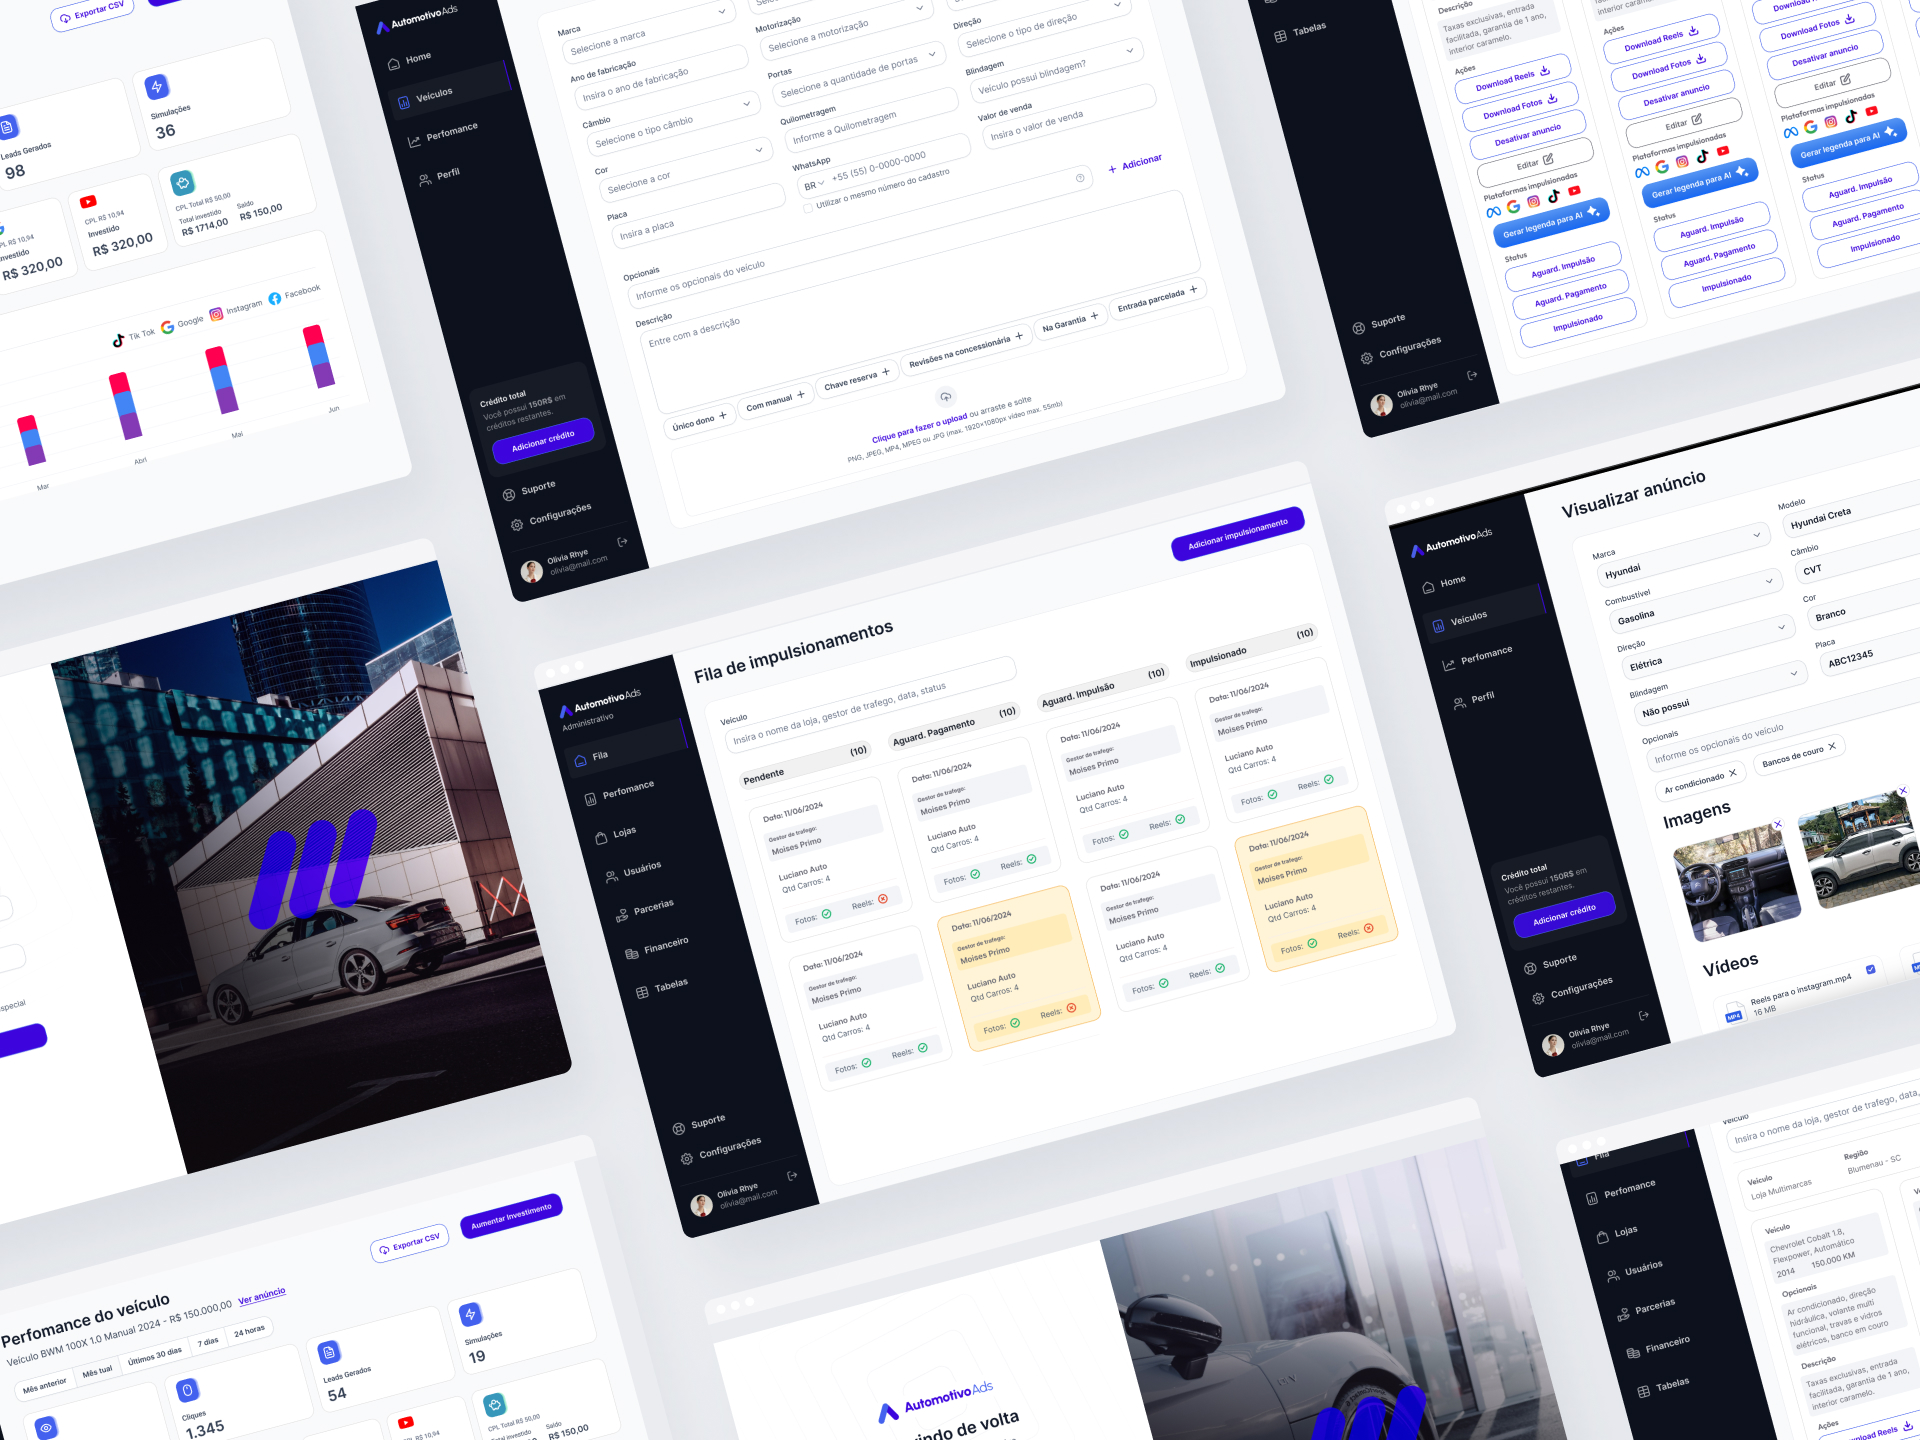
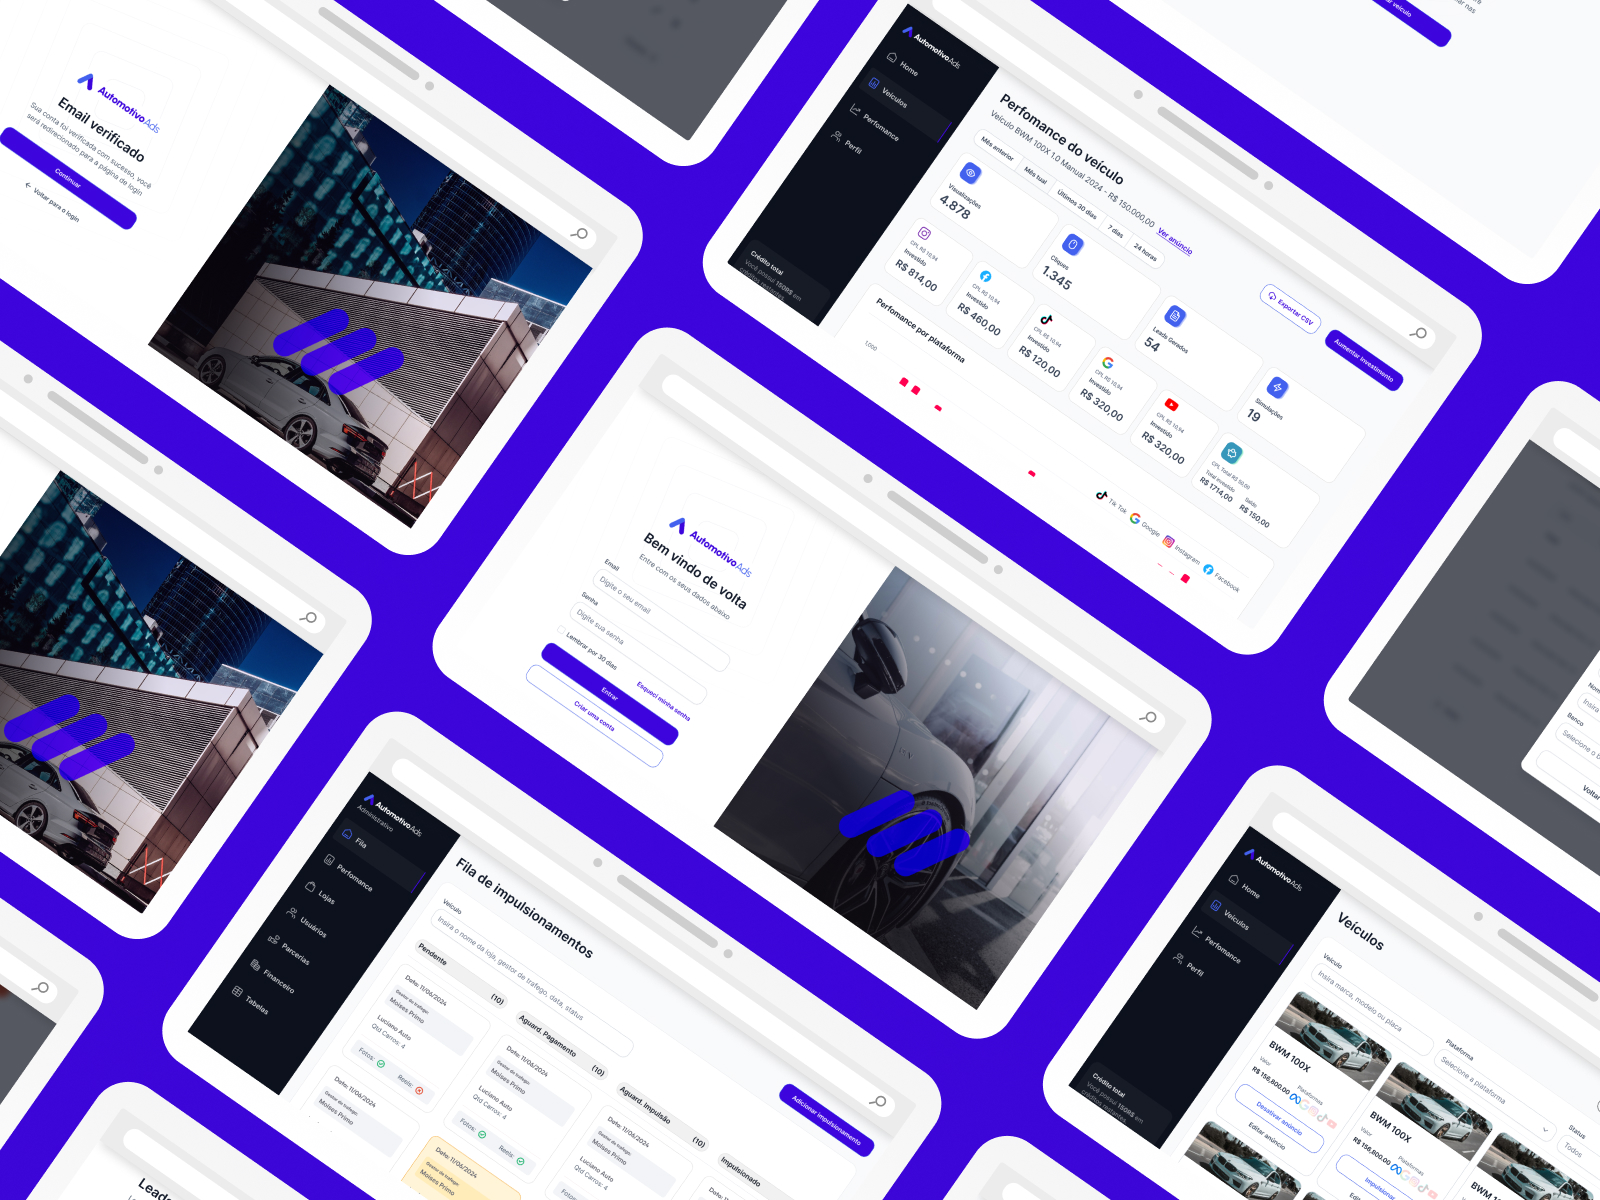
Refactor code structure and remove redundant sections for improved readability and maintainability

diff --git a/app/projetos/[slug]/ProjetoDetalhesClient.tsx b/app/projetos/[slug]/ProjetoDetalhesClient.tsx
@@ -1,34 +1,30 @@
-"use client";
+"use client"
 
-import { useState } from "react";
-import Image from "next/image";
-import Link from "next/link";
+import { useState } from "react"
+import Image from "next/image"
+import Link from "next/link"
 
 interface Projeto {
-  title: string;
-  images: string[];
-  description: string;
-  descriptiondetails: string;
-  descriptiondetails2?: string;
-  descriptiondetails3?: string;
-  badge?: string;
-  badge2?: string;
-  badge3?: string;
-  urlsite?: string;
-  urlgithub?: string;
-  urlfigma?: string;
+  title: string
+  images: string[]
+  description: string
+  descriptiondetails: string
+  descriptiondetails2?: string
+  descriptiondetails3?: string
+  badge?: string
+  badge2?: string
+  badge3?: string
+  urlsite?: string
+  urlgithub?: string
+  urlfigma?: string
 }
 
-export default function ProjetoDetalhesClient({
-  projeto,
-}: {
-  projeto: Projeto;
-}) {
-  const [currentImageIndex, setCurrentImageIndex] = useState(0);
+export default function ProjetoDetalhesClient({ projeto }: { projeto: Projeto }) {
+  const [currentImageIndex, setCurrentImageIndex] = useState(0)
 
   const handleThumbnailClick = (index: number) => {
-    setCurrentImageIndex(index);
-  };
+    setCurrentImageIndex(index)
+  }
 
   return (
     <div className="bg-white dark:bg-neutral-950 py-24 sm:py-32">
@@ -37,8 +33,8 @@ export default function ProjetoDetalhesClient({
           <Image
             src={projeto.images[currentImageIndex]}
             alt={projeto.title}
-            width={600}
-            height={400}
+            width={800}
+            height={800}
             className="rounded-md object-contain"
           />
           <div className="absolute bottom-0 bg-white dark:bg-neutral-950 h-40 w-full [mask-image:linear-gradient(to_bottom,transparent,white)]" />
@@ -61,9 +57,7 @@ export default function ProjetoDetalhesClient({
           ))}
         </div>
         <div className="flex lg:flex-row gap-4 items-start flex-col mt-20">
-          <h1 className="text-zinc-800 dark:text-zinc-100 text-2xl">
-            {projeto.title}
-          </h1>
+          <h1 className="text-zinc-800 dark:text-zinc-100 text-2xl">{projeto.title}</h1>
           <div className="flex">
             {projeto.badge && (
               <span className="text-xs md:text-xs lg:text-xs bg-gray-100 px-4 py-2 rounded-lg">
@@ -83,9 +77,7 @@ export default function ProjetoDetalhesClient({
           </div>
         </div>
         <div>
-          <p className="w-full mt-4 text-zinc-600 dark:text-zinc-400">
-            {projeto.description}
-          </p>
+          <p className="w-full mt-4 text-zinc-600 dark:text-zinc-400">{projeto.description}</p>
         </div>
         <div className="prose prose-sm md:prose-base max-w-none text-zinc-600 dark:text-zinc-400 mt-4">
           <p>{projeto.descriptiondetails}</p>
@@ -105,8 +97,7 @@ export default function ProjetoDetalhesClient({
               href={projeto.urlsite}
               target="_blank"
               rel="noopener noreferrer"
-              className="rounded-md flex gap-2 items-center bg-white px-3.5 py-2.5 text-sm font-semibold text-zinc-600 dark:text-zinc-400 shadow-sm ring-1 ring-inset ring-gray-300 hover:bg-gray-50"
-            >
+              className="rounded-md flex gap-2 items-center bg-white px-3.5 py-2.5 text-sm font-semibold text-zinc-600 dark:text-zinc-400 shadow-sm ring-1 ring-inset ring-gray-300 hover:bg-gray-50">
               Live Preview
               <svg
                 xmlns="http://www.w3.org/2000/svg"
@@ -118,8 +109,7 @@ export default function ProjetoDetalhesClient({
                 strokeWidth="2"
                 strokeLinecap="round"
                 strokeLinejoin="round"
-                className="w-3.5 h-3.5 group-hover:translate-x-0.5 transition-transform"
-              >
+                className="w-3.5 h-3.5 group-hover:translate-x-0.5 transition-transform">
                 <path d="M5 12h14"></path>
                 <path d="M13 18l6-6"></path>
                 <path d="M13 6l6 6"></path>
@@ -131,8 +121,7 @@ export default function ProjetoDetalhesClient({
               href={projeto.urlgithub}
               target="_blank"
               rel="noopener noreferrer"
-              className="rounded-md bg-white dark:bg-neutral-800 px-3.5 py-2.5 text-sm font-semibold text-zinc-600 dark:text-zinc-400 border dark:border-neutral-600 border-neutral-200 hover:bg-gray-50 dark:hover:bg-neutral-900"
-            >
+              className="rounded-md bg-white dark:bg-neutral-800 px-3.5 py-2.5 text-sm font-semibold text-zinc-600 dark:text-zinc-400 border dark:border-neutral-600 border-neutral-200 hover:bg-gray-50 dark:hover:bg-neutral-900">
               GitHub Repo
               <svg
                 xmlns="http://www.w3.org/2000/svg"
@@ -144,8 +133,7 @@ export default function ProjetoDetalhesClient({
                 strokeWidth="2"
                 strokeLinecap="round"
                 strokeLinejoin="round"
-                className="w-3.5 h-3.5 group-hover:translate-x-0.5 transition-transform"
-              >
+                className="w-3.5 h-3.5 group-hover:translate-x-0.5 transition-transform">
                 <path d="M5 12h14"></path>
                 <path d="M13 18l6-6"></path>
                 <path d="M13 6l6 6"></path>
@@ -157,8 +145,7 @@ export default function ProjetoDetalhesClient({
               href={projeto.urlfigma}
               target="_blank"
               rel="noopener noreferrer"
-              className="rounded-md flex items-center justify-center gap-2 bg-white dark:bg-neutral-800 px-3.5 py-2.5 text-sm font-semibold text-zinc-600 dark:text-zinc-400 border dark:border-neutral-600 border-neutral-200 hover:bg-gray-50 dark:hover:bg-neutral-900"
-            >
+              className="rounded-md flex items-center justify-center gap-2 bg-white dark:bg-neutral-800 px-3.5 py-2.5 text-sm font-semibold text-zinc-600 dark:text-zinc-400 border dark:border-neutral-600 border-neutral-200 hover:bg-gray-50 dark:hover:bg-neutral-900">
               Figma Prototype
               <svg
                 xmlns="http://www.w3.org/2000/svg"
@@ -170,8 +157,7 @@ export default function ProjetoDetalhesClient({
                 strokeWidth="2"
                 strokeLinecap="round"
                 strokeLinejoin="round"
-                className="w-3.5 h-3.5 group-hover:translate-x-0.5 transition-transform"
-              >
+                className="w-3.5 h-3.5 group-hover:translate-x-0.5 transition-transform">
                 <path d="M5 12h14"></path>
                 <path d="M13 18l6-6"></path>
                 <path d="M13 6l6 6"></path>
@@ -181,5 +167,5 @@ export default function ProjetoDetalhesClient({
         </div>
       </div>
     </div>
-  );
+  )
 }

diff --git a/app/data/projetosData.ts b/app/data/projetosData.ts
@@ -36,11 +36,7 @@ export const projetosData = [
     description:
       "Página desenvolvida no figma para um grande portal de venda de carros novos e usados do nordeste do Brasil",
     imgsrc: "/images/projetos/carango/projeto1.jpg",
-    images: [
-      "/images/projetos/carango/projeto1.jpg",
-      "/images/projetos/carango/projeto2.jpg",
-      "/images/projetos/carango/projeto3.jpg",
-    ],
+    images: ["/images/projetos/carango/projeto1.jpg", "/images/projetos/carango/projeto3.jpg"],
     urlsite: "",
     urlgithub: "",
     urlfigma:
@@ -50,7 +46,7 @@ export const projetosData = [
     descriptiondetails3: "",
   },
   {
-    id: 4,
+    id: 3,
     slug: "projeto-automotivo-ads",
     title: "Automotivo ADS",
     projectname: "Sistema ADS para ramo Automotivo",
@@ -76,7 +72,47 @@ export const projetosData = [
     videoUrl: "https://player.vimeo.com/video/861019159",
   },
   {
+    id: 4,
+    slug: "projeto-app-ucare",
+    title: "UCare App",
+    projectname: "Aplicativo de voltado para saúde, marcação de consultas, exames e diagnósticos",
+    category: "Design (UI)",
+    badge: "Figma",
+    badge2: "",
+    badge3: "",
+    description: "Aplicativo voltado para área de saúde",
+    imgsrc: "/images/projetos/ucare/projeto.jpg",
+    images: ["/images/projetos/ucare/projeto.jpg"],
+    urlsite: "#",
+    urlgithub: "",
+    urlfigma: "",
+    descriptiondetails: "",
+    descriptiondetails2: "",
+    descriptiondetails3: "",
+    videoUrl: "",
+  },
+  {
     id: 5,
+    slug: "projeto-autosim",
+    title: "AutoSim",
+    projectname: "Plataforma de anúncios e vendas de carros novos e usados",
+    category: "Design (UI)",
+    badge: "Figma",
+    badge2: "",
+    badge3: "",
+    description: "Plataforma de anúncios e vendas de carros novos e usados",
+    imgsrc: "/images/projetos/autosim/projeto.jpg",
+    images: ["/images/projetos/autosim/projeto.jpg"],
+    urlsite: "#",
+    urlgithub: "",
+    urlfigma: "",
+    descriptiondetails: "",
+    descriptiondetails2: "",
+    descriptiondetails3: "",
+    videoUrl: "",
+  },
+  {
+    id: 6,
     slug: "projeto-lpitau",
     title: "Itaú Landing Page",
     projectname: "Criação de LP de estudo Banco Itaú",
@@ -84,8 +120,7 @@ export const projetosData = [
     badge: "Figma",
     badge2: "",
     badge3: "",
-    description:
-      "Landing Page desenvolvida durante estudos de HTML, CSS/SASS e JavaScript",
+    description: "Landing Page desenvolvida durante estudos de HTML, CSS/SASS e JavaScript",
     imgsrc: "/images/projetos/itaulp.webp",
     images: [],
     urlsite: "https://landing-page-itau-tailwind.vercel.app/",
@@ -97,7 +132,7 @@ export const projetosData = [
     videoUrl: "",
   },
   {
-    id: 6,
+    id: 7,
     slug: "projeto-america-software",
     title: "Projeto UI - America Frota",
     projectname: "Redesign de aplicação Web",
@@ -119,7 +154,7 @@ export const projetosData = [
       "https://player.vimeo.com/video/904837560?badge=0&amp;autopause=0&amp;player_id=0&amp;app_id=58479",
   },
   {
-    id: 7,
+    id: 8,
     slug: "projeto-pokemon",
     title: "Projeto - Pokedex",
     projectname: "Consumindo e exibindo dados de uma API",
@@ -138,4 +173,4 @@ export const projetosData = [
     descriptiondetails2: "",
     descriptiondetails3: "",
   },
-];
+]

diff --git a/app/layout.tsx b/app/layout.tsx
@@ -1,17 +1,17 @@
-import type { Metadata } from "next";
-import { Sora } from "next/font/google";
-import "./globals.css";
-import { SmoothScroll } from "./components/SmoothScroll";
-import { Analytics } from "@vercel/analytics/react";
-import { SpeedInsights } from "@vercel/speed-insights/next";
-import { NavigationMenu } from "./components/NavigationBar";
-import Footer from "./components/Footer";
-import Header from "./components/Header";
+import type { Metadata } from "next"
+import { Sora } from "next/font/google"
+import "./globals.css"
+import { SmoothScroll } from "./components/SmoothScroll"
+import { Analytics } from "@vercel/analytics/react"
+import { SpeedInsights } from "@vercel/speed-insights/next"
+import { NavigationMenu } from "./components/NavigationBar"
+import Footer from "./components/Footer"
+import Header from "./components/Header"
 
 const sora = Sora({
   weight: "400",
   subsets: ["latin"],
-});
+})
 
 export const metadata: Metadata = {
   title: "Luciano Silva UX/UI Designer - Front-End Developer",
@@ -51,22 +51,24 @@ export const metadata: Metadata = {
       },
     ],
   },
-};
+}
 
 export default function RootLayout({
   children,
 }: Readonly<{
-  children: React.ReactNode;
+  children: React.ReactNode
 }>) {
   return (
     <html lang="pt-BR">
-      <body className={sora.className}>
+      <body className={`${sora.className} flex flex-col min-h-screen`}>
         <Header />
-        <SmoothScroll>{children}</SmoothScroll>
+        <main className="flex-grow">
+          <SmoothScroll>{children}</SmoothScroll>
+        </main>
         <Footer />
         <Analytics />
         <SpeedInsights />
       </body>
     </html>
-  );
+  )
 }
